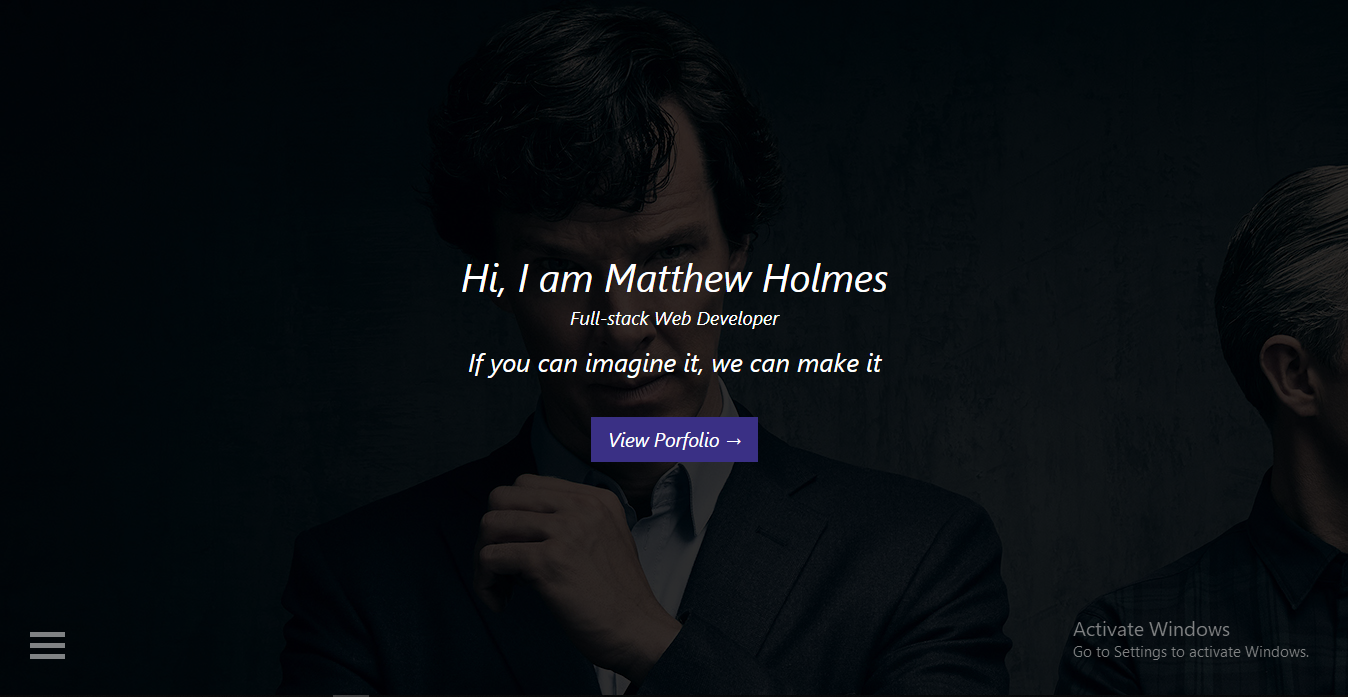
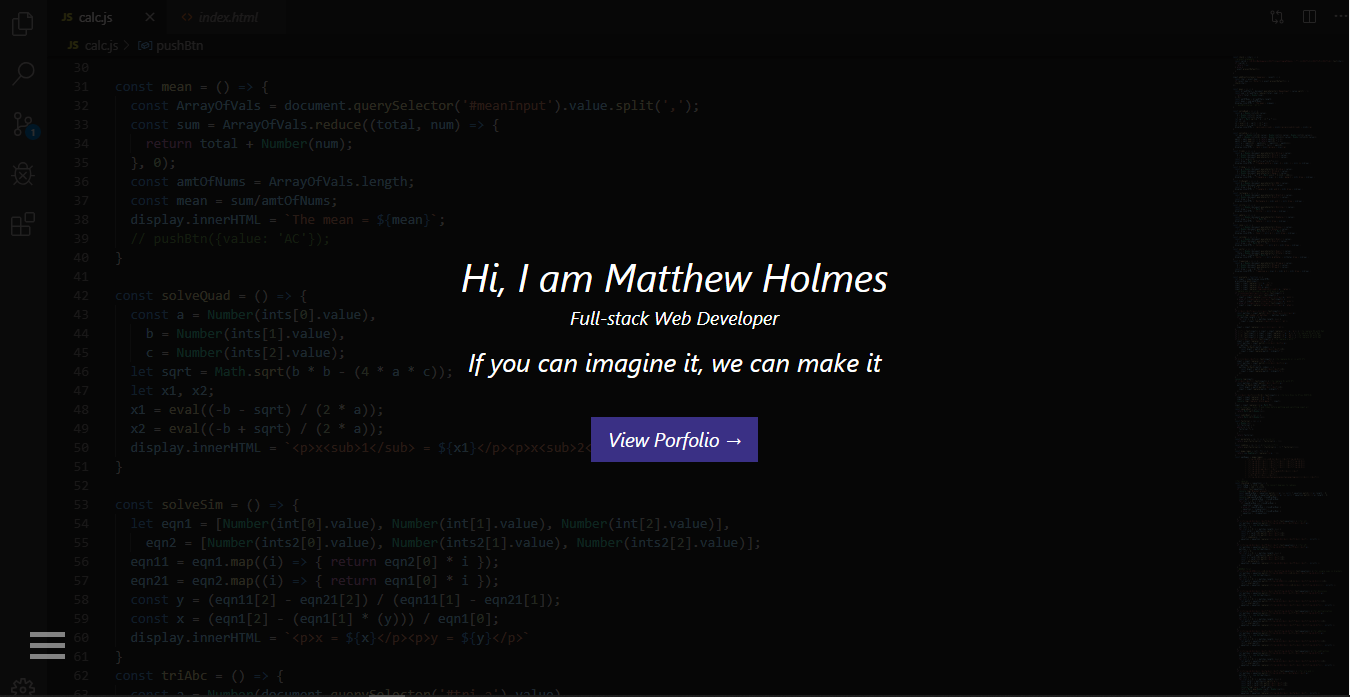
home background pic

diff --git a/src/app/profile/profile.component.css b/src/app/profile/profile.component.css
@@ -2,7 +2,7 @@
   width: 85%;
   height: 23em;
   background-color: rgb(24, 23, 23);
-  background-image: url('./../../assets/sherlock.jpg');
+  background-image: url('/assets/sherlock.jpg');
   background-clip: content-box;
   background-size: cover;
   background-position: center;

diff --git a/src/app/intro.component.css b/src/app/intro.component.css
@@ -1,6 +1,6 @@
 .intro-container {
   background-color: rgb(24, 23, 23);
-  background-image: url('/assets/intro.jpg');
+  background-image: url('/assets/intro1.PNG');
   background-blend-mode: overlay;
   /* background-position: center; */
   /* background-size: cover; */
